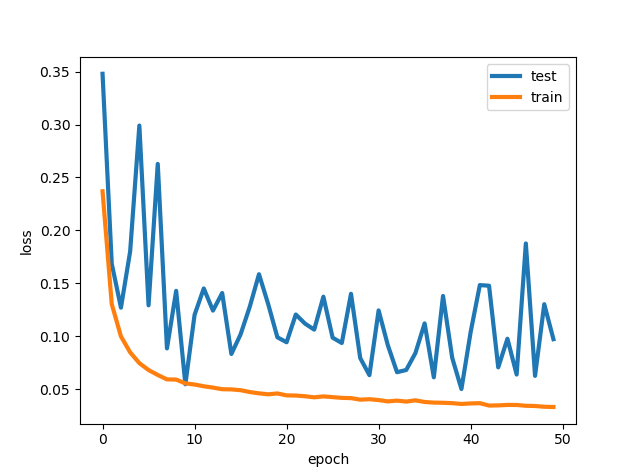
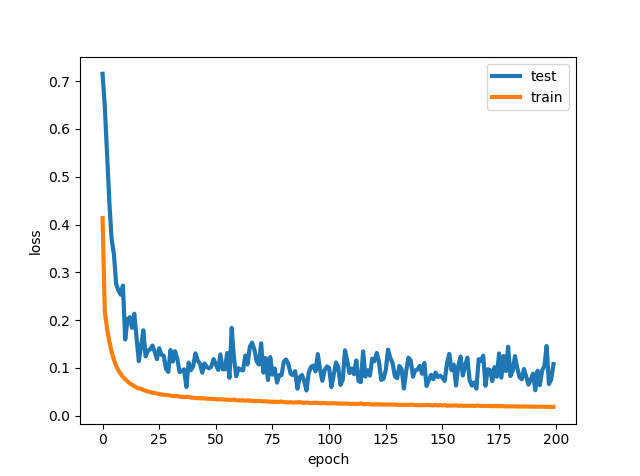
minor changes to q1

diff --git a/EX2/Q1/q1.py b/EX2/Q1/q1.py
@@ -66,9 +66,9 @@ def create_PASCAL_imgs(personDir,pascalDir,dim, max_patches):
     print("loaded pascal data: %s" % (patches.shape,))
     return patches
 
-EPOCHS = 50
-BATCH_SIZE = 100
-LR = 0.001
+EPOCHS = 200
+BATCH_SIZE = 256
+LR = 0.0005
 TEST_SPLIT = .2
 PASCAL_TO_AFLW_RATIO = 3
 
